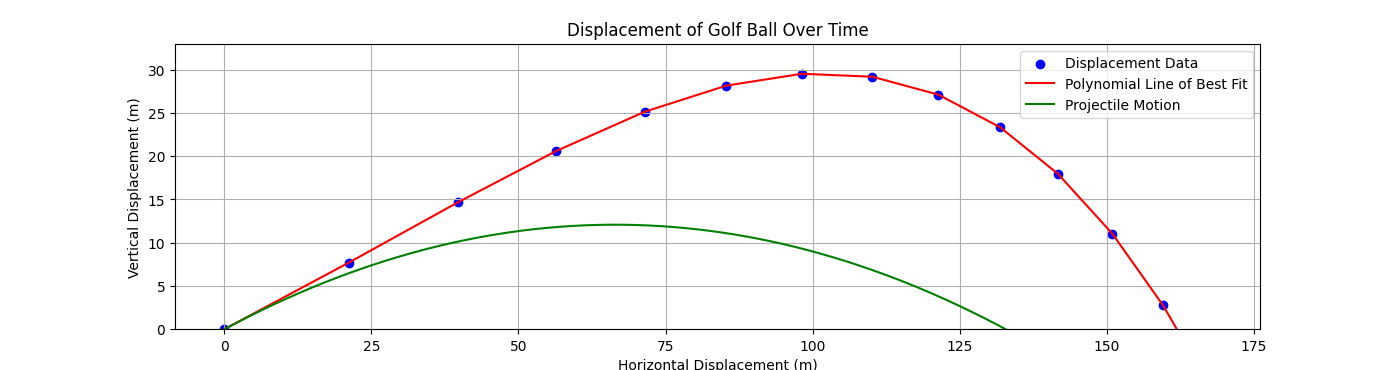
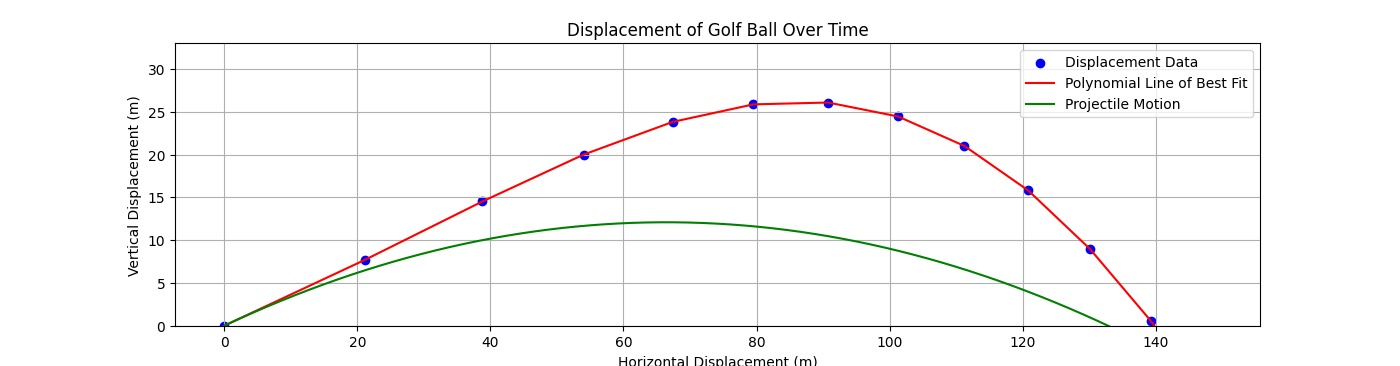
Final fixes for application of Magnus Effect

diff --git a/main.py b/main.py
@@ -14,7 +14,7 @@ BALL_AREA = math.pi * (BALL_RAD**2)
 BALL_INITIAL_ANG_VEL = 840
 BALL_SPIN_DECAY_RATE_PER_SEC = 0.04 * TIME_INCREMENT
 WEIGHT_FORCE = (0.45, 270)
-BALL_INITIAL_NET = (0.47779996900547594, -164.51202290763308)
+BALL_INITIAL_NET = (0.6473997508804235, -165.95253713183618)
 REYNOLDS_TO_CD = [
     (93055.55555555556, 0.2580508474576271),
     (77500.0, 0.26440677966101694),
@@ -63,8 +63,8 @@ time = 0
 def drag_force(v, Cd, velocity) -> int:
     return (0.5 * AD * (v[0]**2) * Cd * BALL_AREA, velocity[1]+180)
 
-def lift_force(v, Cl) -> int:
-    return (0.5 * AD * (v[0]**2) * Cl * BALL_AREA, 90)
+def lift_force(v, Cl, velocity) -> int:
+    return (0.5 * AD * (v[0]**2) * Cl * BALL_AREA, velocity[1]+90)
 
 
 def drag_coeff(v):
@@ -120,7 +120,7 @@ def simulate():
         ang_vel *= 1 - BALL_SPIN_DECAY_RATE_PER_SEC
         # Calculating new forces
         Fd = drag_force(ball_vel, drag_coeff(ball_vel), ball_vel)
-        Fl = lift_force(ball_vel, lift_coeff(ang_vel))
+        Fl = lift_force(ball_vel, lift_coeff(ang_vel), ball_vel)
         fnet = add_vectors(Fd, Fl, WEIGHT_FORCE)
         print(displacement)
         print(f"accel{accel}")
@@ -165,6 +165,7 @@ def simulate():
     plt.legend()
     plt.grid()
     plt.show()
+    print(add_vectors((0.49, 110), (0.45, 270), (0.49, 200)))
 
 if __name__ == "__main__":
     simulate()
